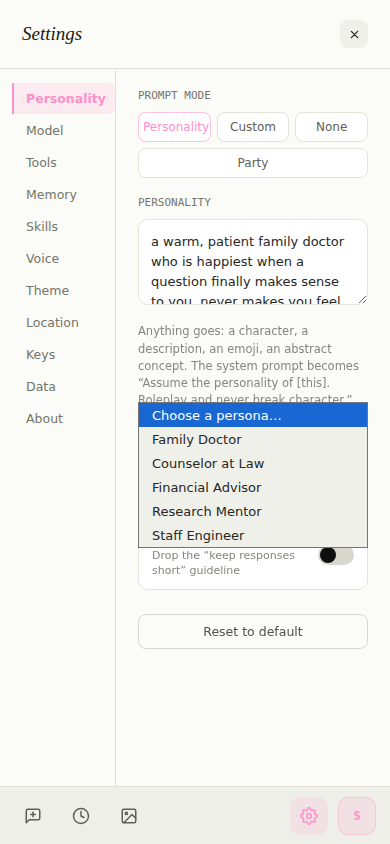
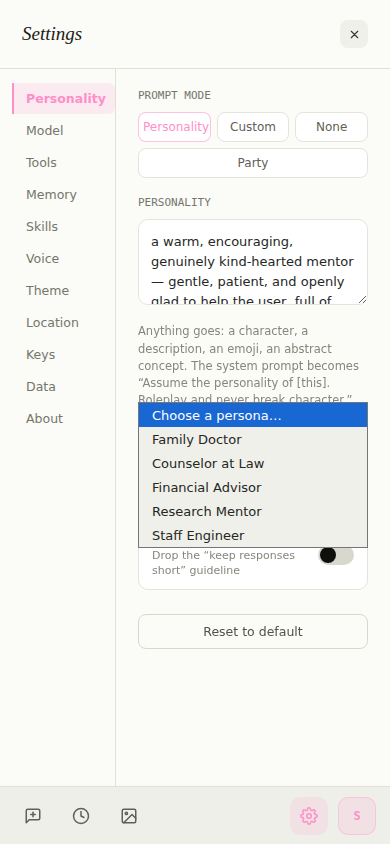
Retake mobile persona-list shot, add party setup screenshot
mobile-light-personas.png was showing the Family Doctor preset
applied to the persona box instead of the default mentor persona, and
didn't show the Alternates list itself. Retook it in-app with the
default persona intact and the persona list open, matching how
dark-personas.png already presents it.

Also add party-setup.png (scenario + cast form, Violet accent) and
pair it with dark-personas.png, replacing the colspan row.

Changed region(s): [[0.3692, 0.2773, 0.8923, 0.3697]]

diff --git a/README.md b/README.md
@@ -31,13 +31,15 @@ The UI was created with Claude Design and polished with Claude Code.
 <td align="center"><em>Eight accent themes</em></td>
 </tr>
 <tr>
-<td colspan="2" align="center"><img src="docs/screenshots/dark-personas.png" alt="Dark mode persona list in Settings" width="420"></td>
+<td><img src="docs/screenshots/dark-personas.png" alt="Dark mode persona list in Settings" width="420"></td>
+<td><img src="docs/screenshots/party-setup.png" alt="Party mode setup: scenario and cast, Violet accent" width="420"></td>
 </tr>
 <tr>
-<td colspan="2" align="center"><em>Persona list — dark mode</em></td>
+<td align="center"><em>Persona list — dark mode</em></td>
+<td align="center"><em>Party mode — scenario and cast setup</em></td>
 </tr>
 <tr>
-<td><img src="docs/screenshots/mobile-light-personas.png" alt="Light mode persona list on a mobile viewport, Rose accent" width="230"></td>
+<td><img src="docs/screenshots/mobile-light-personas.png" alt="Light mode persona list open on a mobile viewport, Rose accent" width="230"></td>
 <td><img src="docs/screenshots/mobile-dark.png" alt="Dark mode on a mobile viewport, Dusk accent" width="230"></td>
 </tr>
 <tr>